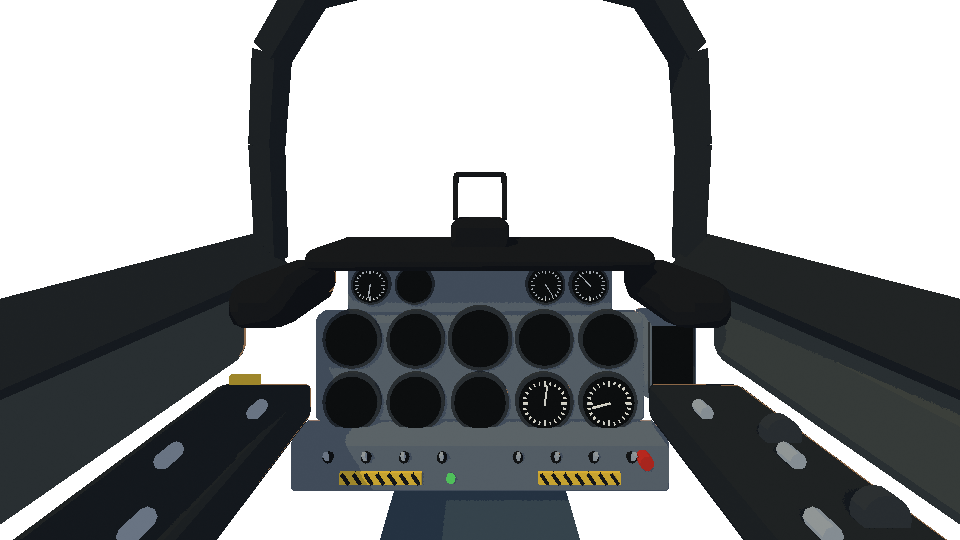
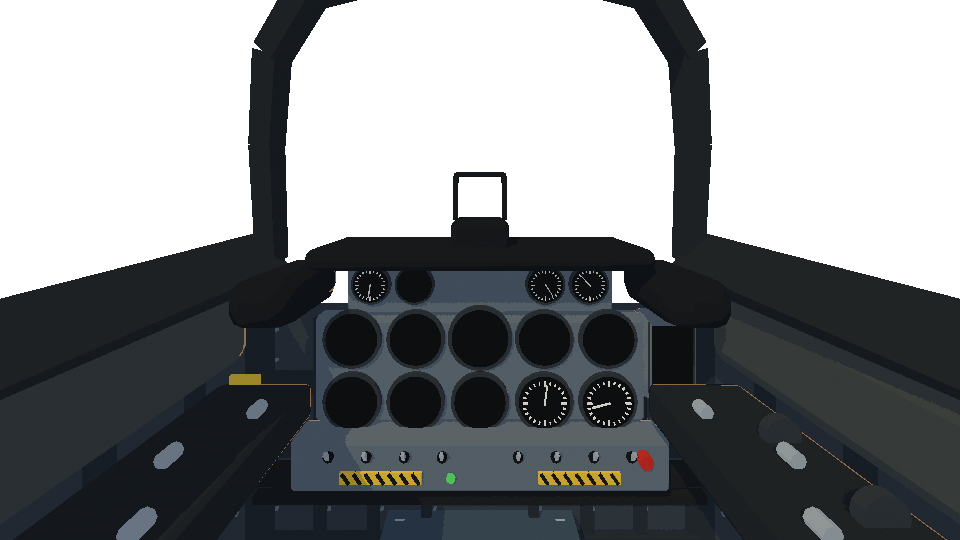
cabina en primera persona: la parte de abajo ya no es transparente — la tina cerrada (mamparo detras del tablero, paredes bajo las consolas y piso) en chapa gris con cuadernas, larguerillos, remaches, mazos de cables y los pedales; rehorneada

diff --git a/tools/blender/hornear_cabina.py b/tools/blender/hornear_cabina.py
@@ -229,7 +229,56 @@ def cabina(T, K):
     G['palanca'] = grupo('g_palanca', (0, -0.80, -0.33), palanca)
     # EL PISO entre las piernas, al fondo
     pieza('piso', raiz, m['piso'], (0.40, 0.01, 0.40), (0, -0.70, -0.45))
+    tina(raiz, K)
     return raiz
+
+# LA TINA (el autor, 14/11: "la parte de abajo se ve transparente, rellenar con material"): la cabina es
+# una bañera cerrada — el mamparo detras del tablero, las paredes bajo las consolas y el piso — en chapa
+# gris oscuro con cuadernas, larguerillos, remaches, mazos de cables y los pedales. Abajo no se ve el
+# mundo: solo el parabrisas y el canopy dejan pasar.
+CHAPA, CUADERNA, REMACHE, CABLE, CABLE2 = '#2f363b', '#22282c', '#5b656b', '#1a1c1d', '#6b5a2e'
+
+def tina(raiz, K):
+    m = {n: K['mat_cel']('tina_' + n, c) for n, c in (('chapa', CHAPA), ('cuaderna', CUADERNA), ('remache', REMACHE),
+                                                      ('cable', CABLE), ('cable2', CABLE2), ('piso', PISO), ('metal', METAL))}
+    ZM = -0.60                                                    # el mamparo, detras del tablero
+    pieza('mamparo', raiz, m['chapa'], (1.04, 0.74, 0.02), (0, -0.62, ZM))
+    for sg in (-1, 1):
+        pieza('pared', raiz, m['chapa'], (0.02, 0.80, 0.90), (sg * 0.48, -0.61, -0.15))   # sube hasta el zocalo
+        pieza('bajo_consola', raiz, m['cuaderna'], (0.16, 0.02, 0.90), (sg * 0.42, -0.40, -0.15))
+    pieza('piso_tina', raiz, m['piso'], (1.0, 0.02, 0.90), (0, -0.90, -0.15))
+    # las CUADERNAS del mamparo (verticales) y los LARGUERILLOS (horizontales), con sus remaches
+    for i in range(-4, 5):
+        x = i * 0.115
+        if abs(x) < 0.05: continue                                # el hueco de la palanca
+        pieza('cuaderna', raiz, m['cuaderna'], (0.022, 0.70, 0.02), (x, -0.62, ZM + 0.015))
+        for k in range(10):
+            pieza('remache', raiz, m['remache'], (0.006, 0.006, 0.004), (x + 0.017, -0.30 - k * 0.065, ZM + 0.012))
+    for y in (-0.55, -0.74):
+        pieza('larguerillo', raiz, m['cuaderna'], (1.02, 0.018, 0.016), (0, y, ZM + 0.024))
+    # las paredes de los costados: cuadernas que bajan y remaches en fila
+    for sg in (-1, 1):
+        for k in range(8):
+            z = 0.22 - k * 0.11
+            pieza('cuaderna_l', raiz, m['cuaderna'], (0.02, 0.76, 0.022), (sg * 0.468, -0.61, z))
+            for j in range(7):
+                pieza('remache_l', raiz, m['remache'], (0.004, 0.006, 0.006), (sg * 0.469, -0.30 - j * 0.08, z + 0.03))
+        # los MAZOS DE CABLES que corren por la pared, con sus abrazaderas
+        for (y0, mat) in ((-0.47, 'cable'), (-0.50, 'cable2'), (-0.53, 'cable')):
+            tubo('mazo', raiz, m[mat], [(sg * 0.455, y0, 0.25), (sg * 0.455, y0 - 0.02, -0.30),
+                                      (sg * 0.46, y0 - 0.06, ZM + 0.04)], 0.009)
+        for k in range(4):
+            pieza('abrazadera', raiz, m['remache'], (0.03, 0.10, 0.012), (sg * 0.45, -0.51, 0.15 - k * 0.20))
+    # el mazo grande que cruza el mamparo bajo el tablero
+    tubo('mazo_m', raiz, m['cable'], [(-0.48, -0.58, ZM + 0.04), (-0.15, -0.60, ZM + 0.04), (0.15, -0.60, ZM + 0.04),
+                                      (0.48, -0.58, ZM + 0.04)], 0.014)
+    tubo('mazo_m2', raiz, m['cable'], [(-0.48, -0.62, ZM + 0.05), (0.48, -0.62, ZM + 0.05)], 0.008)
+    # LOS PEDALES del timon, al fondo
+    for sg in (-1, 1):
+        tubo('brazo_pedal', raiz, m['metal'], [(sg * 0.17, -0.70, ZM + 0.02), (sg * 0.17, -0.80, -0.50)], 0.010)
+        bloque('pedal', raiz, m['cuaderna'], (sg * 0.17, -0.81, -0.50), (0.10, 0.12, 0.02), bisel=0.006)
+        for k in range(3):
+            pieza('estria', raiz, m['remache'], (0.08, 0.008, 0.004), (sg * 0.17, -0.77 - k * 0.035, -0.488))
 
 def anclas(cam):
     """El centro y el radio de cada reloj (y el colimador), proyectados con LA camara: pixeles de 480x270."""
